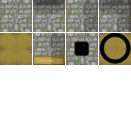
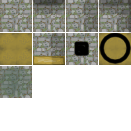
teleport works.

Changed region(s): [[0.0, 0.4885, 0.2443, 0.7634]]

diff --git a/core/src/com/mygdx/game/GameScreen.java b/core/src/com/mygdx/game/GameScreen.java
@@ -16,10 +16,7 @@ import com.badlogic.gdx.maps.tiled.TiledMapTileLayer;
 import com.badlogic.gdx.maps.tiled.TmxMapLoader;
 import com.badlogic.gdx.maps.tiled.renderers.OrthogonalTiledMapRenderer;
 import com.badlogic.gdx.scenes.scene2d.Stage;
-import com.badlogic.gdx.scenes.scene2d.actions.MoveByAction;
-import com.badlogic.gdx.scenes.scene2d.actions.MoveToAction;
 import com.badlogic.gdx.utils.viewport.FillViewport;
-import com.badlogic.gdx.utils.viewport.Viewport;
 
 /**
  * Created by tim on 2016-01-03.
@@ -28,7 +25,7 @@ import com.badlogic.gdx.utils.viewport.Viewport;
 public class GameScreen implements Screen, InputProcessor {
     // vars
     SpriteBatch batch;
-    Texture imgPlayer,imgDoor[]= new Texture[4];
+    Texture imgPlayer,imgDoor[]= new Texture[4],imgKey[]= new Texture[2],imgEnemies[]= new Texture[90];
     //stage and game
     Game game;
     Stage stage;
@@ -38,8 +35,8 @@ public class GameScreen implements Screen, InputProcessor {
     //camera and view ports
     OrthographicCamera camera;
     boolean arbInput[] = new boolean[6];
-    boolean collisionX = false, collisionY = false;
-    int nDx,nDy,nPx=320,nPy=2432, nLDx[]= new int[4],nLDy[]= new int[4],nLDp=0;
+    int nDx,nDy,nPx=320,nPy=2432, nLDx[]= new int[4],nLDy[]= new int[4],nLDp=0,nEx[]=new int[90],nEy[]= new int[90],nKey=0;
+    int nKeyx[]=new int[2], nKeyy[] = new int[2], nKeyp=0, nTelx, nTely;
 
 
 
@@ -132,7 +129,6 @@ public class GameScreen implements Screen, InputProcessor {
         }
         if (arbInput[4]) {
             nDx = -2;
-
         }
         if (arbInput[5]) {
 
@@ -154,37 +150,30 @@ public class GameScreen implements Screen, InputProcessor {
         imgPlayer = new Texture ("player1.png");
         for (int i=0; i<4; i++) {
             imgDoor[i]=new Texture("BaseFLW.png");
-           // nLDx[i]=nLDy[i]=0;
+            if (i<2){
+                imgKey[i]=new Texture("BaseKey.png");
+            }
         }
         batch = new SpriteBatch();
         stage = new Stage(new FillViewport(320,180,camera));
         stage.getViewport().setCamera(camera);
         stage.getViewport().apply();
 
-
-        /**player actor
-        Player player = new Player();
-        MoveByAction move = new MoveByAction();
-        move.setAmount(nDx, nDy);
-        player.addAction(move);
-        stage.addActor(player);
-        **/
         // tiled map
         tiledMap = new TmxMapLoader().load("Testlevel.tmx");
         tiledMapRenderer = new OrthogonalTiledMapRenderer(tiledMap);
         objectplace();
         Gdx.input.setInputProcessor(this);
-
-        //player.setPosition(320,2432);
-        camera.position.set(320,2432 , 0);
+        camera.position.set(320, 2432, 0);
     }
 
     @Override
     public void render(float delta) {
         Wallcollision();
+        pickup();
+        TelCheck();
         // camera and player
         camera.translate(nDx, nDy);
-
         // render
         tiledMapRenderer.setView((OrthographicCamera) stage.getCamera());
         tiledMapRenderer.render();
@@ -193,10 +182,14 @@ public class GameScreen implements Screen, InputProcessor {
         //stage.draw();
         batch.setProjectionMatrix(camera.combined);
         batch.begin();
-        batch.draw(imgPlayer, nPx, nPy);
+
         for (int i=0; i<4;i++){
-            batch.draw(imgDoor[i], nLDx[i],nLDy[i]);
+            batch.draw(imgDoor[i], nLDx[i], nLDy[i]);
+            if (i<2){
+                batch.draw(imgKey[i], nKeyx[i],nKeyy[i]);
+            }
         }
+        batch.draw(imgPlayer, nPx, nPy);
         batch.end();
 
 
@@ -208,15 +201,27 @@ public class GameScreen implements Screen, InputProcessor {
         for (int x = 0; x < layer.getWidth(); x++) {
             for (int y = 0; y < layer.getHeight(); y++) {
                 TiledMapTileLayer.Cell cell = layer.getCell(x, y);
-                Object property = cell.getTile().getProperties().get("Door");
-                if (property != null) {
+                Object doors = cell.getTile().getProperties().get("Door");
+                Object Keys= cell.getTile().getProperties().get("keys");
+                if (doors != null) {
                     nLDx[nLDp] = x * 32;
                     nLDy[nLDp] = y * 32;
                     nLDp++;
+                }
+                if(Keys != null){
+                    System.out.println("key at "+x+y);
+                    nKeyx[nKeyp] = x * 32;
+                    nKeyy[nKeyp] = y * 32;
+                    nKeyp++;
+                }
+                Object Tel_= cell.getTile().getProperties().get("Tel_");
+                if(Tel_ != null){
+                     nTelx = x * 32;
+                     nTely = y * 32;
+                }
+                Object BasicEnemies= cell.getTile().getProperties().get("BE");
+                if(BasicEnemies != null){
 
-                } else {
-                    System.out.println("no door at x " + x + " y " + y);
-                    System.out.println("");
                 }
             }
         }
@@ -226,6 +231,7 @@ public class GameScreen implements Screen, InputProcessor {
       int noldX=nPx,noldY=nPy;
       TiledMapTileLayer layer = (TiledMapTileLayer) tiledMap.getLayers().get(0);
       // adding the new movement
+      DoorCheck(noldY);
       nPx=nPx+nDx;
       nPy=nPy+nDy;
       //moving right
@@ -245,8 +251,7 @@ public class GameScreen implements Screen, InputProcessor {
              // nPy=noldY;
               nDx=nDy=0;
           }
-      }
-      else if (nDy<0) {
+      } else if (nDy<0) {
           TiledMapTileLayer.Cell cell = layer.getCell(nPx / 32, nPy / 32);
           Object property = cell.getTile().getProperties().get("blocked");
           if (property != null) {
@@ -264,8 +269,44 @@ public class GameScreen implements Screen, InputProcessor {
           }
       }
     }
+    public void DoorCheck( int noldY){
+        for(int i=0; i<4; i++){
+            if(nPx>=nLDx[i]&&nPx<nLDx[i]+43&&nPy>=nLDy[i]&&nPy<nLDy[i]+10){
+                KeyCheck(i);
+                nPy = noldY-1;
+                camera.translate(0,-1);
+                nDy=0;
+                //nDx=0;
+            }
+        }
+    }
 
-    public void Telcheck(){
+    public void KeyCheck(int i_) {
+        if(nKey>0){
+            nLDy[i_]=nLDx[i_]=-1000;
+            nKey--;
+        }
+    }
+
+    public void pickup(){
+        for (int i=0; i<2; i++) {
+            if(nKeyx[i]>=nPx&&nKeyx[i]+6<=nPx+11&&nKeyy[i]>=nPy&&nKeyy[i]+11<=nPy+18){
+                nKeyx[i]=nKeyy[i]=-1000;
+                nKey++;
+                System.out.println("key");
+            }
+        }
+    }
+
+    public void TelCheck(){
+        TiledMapTileLayer layer = (TiledMapTileLayer) tiledMap.getLayers().get(0);
+        TiledMapTileLayer.Cell cell = layer.getCell((nPx)/32,nPy/32);
+        Object property = cell.getTile().getProperties().get("Tel");
+        if (property != null){
+            nPx=nTelx;
+            nPy=nTely;
+            camera.position.set(nTelx, nTely, 0);
+        }
 
     }
 

diff --git a/desktop/src/com/mygdx/game/desktop/DesktopLauncher.java b/desktop/src/com/mygdx/game/desktop/DesktopLauncher.java
@@ -7,7 +7,7 @@ import com.badlogic.gdx.maps.tiled.tiles.StaticTiledMapTile;
 import com.mygdx.game.Main;
 
 public class DesktopLauncher {
-	static int nWidth=1280,nHight=720;
+	static int nWidth=640,nHight=320;
 	static Boolean bFullScreen = false;
 	public  void gamesettings(int nWidth_, int nHight_, Boolean bFullScreen_){
 
